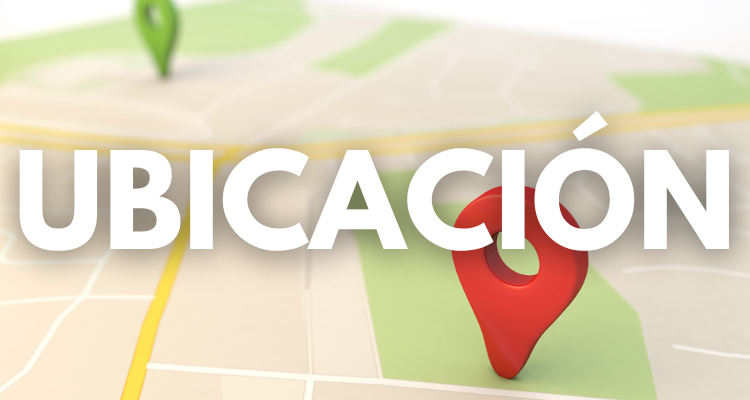
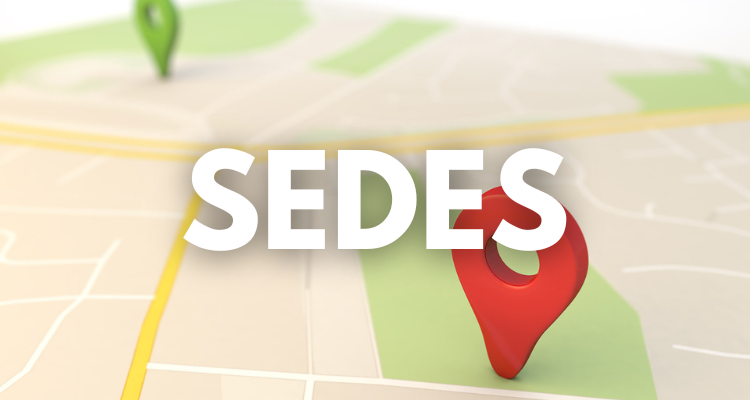
Sección SEDES

Changed region(s): [[0.0, 0.27, 1.0, 0.69]]

diff --git a/pages/cont/sedes.html b/pages/cont/sedes.html
@@ -28,123 +28,129 @@
     <link href="https://fonts.googleapis.com/css2?family=League+Spartan:wght@500&display=swap" rel="stylesheet">
 
     <!-- CSS -->
-    <link rel="stylesheet" href="../css/style.css">
+    <link rel="stylesheet" href="../../css/style.css">
 
     <!-- Favicon -->
-    <link rel="shortcut icon" href="../multimedia/favicon.ico" type="image/x-icon">
+    <link rel="shortcut icon" href=".ico" type="image/x-icon">
 
     <!-- Meta description -->
-    <meta name="description" content="Estudio Jurídico LEGEM cuenta con presencia en las principales redes sociales, lo cual permite que puedas contactarnos por la vía que te resulte más cómoda y conveniente. Estamos para ayudarte.">
+    <meta name="description" content="Bienvenidos a Estudio Jurídico LEGEM, un bufete de abogados con más de 30 años de experiencia. Ofrecemos una amplia variedad de servicios.">
 
     <!-- Meta keywords -->
-    <meta name="keywords" content="Estudio jurídico, abogados, firma de abogados, LEGEM, Argentina, España, Italia, juicio, accidentes de tránsito, sucesiones, contratos, nacionalidad española, extranjería, ciudadanía italiana, visado de emprendedor, apertura de cuenta bancaria, trámites internacionales, contacto, redes sociales">
+    <meta name="keywords" content="Estudio jurídico, abogados, LEGEM, ubicación, sedes, Argentina, España">
 
     <!-- Protocolo Open Graph -->
     <meta property="og:type" content="website">
-    <meta property="og:title" content="Contacto | Estudio Jurídico LEGEM">
-    <meta property="og:url" content="https://www.estudiolegem.com/pages/contacto.html">
+    <meta property="og:title" content="Sedes | Estudio Jurídico LEGEM">
+    <meta property="og:url" content="https://www.estudiolegem.com/pages/cont/sedes.html">
     <meta property="og:image" content="https://estudiolegem.com/multimedia/newlogofooter4.png">
 
-    <title>Contacto | Estudio Jurídico LEGEM</title>
+    <title>Sedes | Estudio Jurídico LEGEM</title>
 </head>
 <body>
 
     <div data-aos="zoom-in">
-        
+
+
         <nav class="navbar sticky-top navbar-expand-lg navbar-dark">
             <div class="container">
-                <a href="../index.html" class="navbar-brand">
-                    <img class="arg-leon" src="../multimedia/leon-xxs.jpg" alt="León dorado que se encuentra en el logo de Estudio Jurídico LEGEM.">
+                <a href="../../index.html" class="navbar-brand">
+                    <img class="arg-leon" src="../../multimedia/leon-xxs.jpg" alt="">
                 </a>
-
+    
                 <button class="navbar-toggler shadow-none" type="button" data-bs-toggle="collapse" data-bs-target="#navmenu">
                     <span class="navbar-toggler-icon"></span>
                 </button>
-
+    
                 <div class="collapse navbar-collapse" id="navmenu">
                     <ul class="navbar-nav ms-auto">
                         <li class="nav-item d-flex justify-content-sm-center">
-                            <a href="../index.html" class="nav-link">INICIO</a>
+                            <a href="../../index.html" class="nav-link">INICIO</a>
                         </li>
                         <li class="nav-item d-flex justify-content-sm-center">
-                            <a href="estudio.html" class="nav-link">NUESTRO ESTUDIO</a>
+                            <a href="../estudio.html" class="nav-link">NUESTRO ESTUDIO</a>
                         </li>
                         <li class="nav-item d-flex justify-content-sm-center">
-                            <a href="areas-de-practica.html" class="nav-link">ÁREAS DE PRÁCTICA</a>
+                            <a href="../areas-de-practica.html" class="nav-link">ÁREAS DE PRÁCTICA</a>
                         </li>
                         <li class="nav-item d-flex justify-content-sm-center">
-                            <a href="contacto.html" class="nav-link active-contacto-arg">CONTACTO</a>
+                            <a href="../contacto.html" class="nav-link active-practica-arg">CONTACTO</a>
                         </li>
                     </ul>
                 </div>
-
             </div>
         </nav>
         <!-- Fin Nav -->
-
+    
         <!-- Section 1 -->
         <section>
-            <img class="img-fluid" src="../multimedia/contacto1.png" alt="Foto encabezado con la palabra CONTACTO en mayúscula y un fondo con libros, una balanza y un martillo de Juez.">
+            <img class="img-fluid" src="../../multimedia/cont-ubi2.png" alt="Foto botón con un mapa satelital gris, amarillo y verde e indicadores rojo y verde con la palabra SEDES en medio">
         </section>
         <!-- Fin section 1 -->
-
+    
         <!-- Section 2 -->
-        <section class="contacto-section-2">
+        <section class="nuestro-estudio-section-2">
             <div class="container">
-                <div class="row borderbottpractband">
-                    <div class="col-12">
-                        <p class="psection2adp">Brindamos asesoramiento integral a través de cualquiera de nuestros canales de contacto. A su vez, los invitamos a sumarse a nuestras comunidades de Facebook, Instagram y LinkedIn.</p>
+                <a href="../contacto.html" class="a-volver">
+                    <button class="button-volver"><svg xmlns="http://www.w3.org/2000/svg" width="16" height="16" fill="currentColor" class="bi bi-arrow-return-left" viewBox="0 0 16 16">
+                        <path fill-rule="evenodd" d="M14.5 1.5a.5.5 0 0 1 .5.5v4.8a2.5 2.5 0 0 1-2.5 2.5H2.707l3.347 3.346a.5.5 0 0 1-.708.708l-4.2-4.2a.5.5 0 0 1 0-.708l4-4a.5.5 0 1 1 .708.708L2.707 8.3H12.5A1.5 1.5 0 0 0 14 6.8V2a.5.5 0 0 1 .5-.5z"/>
+                      </svg> Volver</button>
+                </a>
+
+                <div class="container">
+                    <div class="row borderbottpractband">
+                        <div class="col-12">
+                            <p class="psection2adp">Estudio Jurídico LEGEM cuenta con 4 sedes distribuidas estratégicamente en Argentina y España.</p>
+                        </div>
+                    </div>
+                    <div class="row">
+                        <div class="col-12 borderbottpractband">
+                            <p class="psection2adp">SEDES EN ARGENTINA</p> 
+            
+                            <iframe src="https://www.google.com/maps/embed?pb=!1m18!1m12!1m3!1d3283.899620901983!2d-58.38955190000001!3d-34.6066997!2m3!1f0!2f0!3f0!3m2!1i1024!2i768!4f13.1!3m3!1m2!1s0x95bccac38548fbd5%3A0x47f499707fed10a5!2sTte.%20Gral.%20Juan%20Domingo%20Per%C3%B3n%201610%208%C2%B0%20piso%2C%20C1037%20San%20Nicolas%2C%20Buenos%20Aires!5e0!3m2!1ses!2sar!4v1667245916803!5m2!1ses!2sar" width="300" height="300" style="border:0;" allowfullscreen="" loading="lazy" referrerpolicy="no-referrer-when-downgrade"></iframe>  
+
+                            <p class="psection2adp"><svg xmlns="http://www.w3.org/2000/svg" width="16" height="16" fill="currentColor" class="bi bi-geo-alt-fill" viewBox="0 0 16 16">
+                                <path d="M8 16s6-5.686 6-10A6 6 0 0 0 2 6c0 4.314 6 10 6 10zm0-7a3 3 0 1 1 0-6 3 3 0 0 1 0 6z"/>
+                              </svg> Tte. Gral. Juan Domingo Perón 1610, 8° Piso, Balvanera, C.A.B.A. (C.P. 1037)</p> 
+                            
+                            <iframe src="https://www.google.com/maps/embed?pb=!1m18!1m12!1m3!1d3281.0156969823242!2d-58.4742512!3d-34.679553299999995!2m3!1f0!2f0!3f0!3m2!1i1024!2i768!4f13.1!3m3!1m2!1s0x95bcc952087d276d%3A0x4b5bf688f48a9ebb!2sMartiniano%20Leguizam%C3%B3n%204401%2C%20C1439%20CABA!5e0!3m2!1ses!2sar!4v1667246422705!5m2!1ses!2sar" width="300" height="300" style="border:0;" allowfullscreen="" loading="lazy" referrerpolicy="no-referrer-when-downgrade"></iframe>
+
+                            <p class="psection2adp"><svg xmlns="http://www.w3.org/2000/svg" width="16" height="16" fill="currentColor" class="bi bi-geo-alt-fill" viewBox="0 0 16 16">
+                                <path d="M8 16s6-5.686 6-10A6 6 0 0 0 2 6c0 4.314 6 10 6 10zm0-7a3 3 0 1 1 0-6 3 3 0 0 1 0 6z"/>
+                              </svg> Martiniano Leguizamón 4401, Villa Lugano, C.A.B.A. (C.P. 1439)</p> 
+                        </div>
+                    </div>
+
+                    <div class="row">
+                        <div class="col-12">
+                            <p class="psection2adp">SEDES EN ESPAÑA</p> 
+            
+                            <iframe src="https://www.google.com/maps/embed?pb=!1m18!1m12!1m3!1d3205.5946951814317!2d-4.6207407!3d36.5397714!2m3!1f0!2f0!3f0!3m2!1i1024!2i768!4f13.1!3m3!1m2!1s0xd72e26a4624211d%3A0xba9e7a0654a93252!2sC.%20Moncayo%2C%2037%2C%2029640%20Fuengirola%2C%20M%C3%A1laga%2C%20Espa%C3%B1a!5e0!3m2!1ses!2sar!4v1667246921915!5m2!1ses!2sar" width="300" height="300" style="border:0;" allowfullscreen="" loading="lazy" referrerpolicy="no-referrer-when-downgrade"></iframe>
+
+                            <p class="psection2adp"><svg xmlns="http://www.w3.org/2000/svg" width="16" height="16" fill="currentColor" class="bi bi-geo-alt-fill" viewBox="0 0 16 16">
+                                <path d="M8 16s6-5.686 6-10A6 6 0 0 0 2 6c0 4.314 6 10 6 10zm0-7a3 3 0 1 1 0-6 3 3 0 0 1 0 6z"/>
+                              </svg> Calle Moncayo 37, Fuengirola, Málaga, España (C.P. 29640)</p> 
+                            
+                            <iframe src="https://www.google.com/maps/embed?pb=!1m14!1m8!1m3!1d3035.4292625781013!2d-3.6909696!3d40.4657675!3m2!1i1024!2i768!4f13.1!3m3!1m2!1s0xd4229104f229ad3%3A0x6913d977f58df33c!2sC.%20de%20Bravo%20Murillo%2C%20377%2C%2028020%20Madrid%2C%20Espa%C3%B1a!5e0!3m2!1ses!2sar!4v1667246977612!5m2!1ses!2sar" width="300" height="300" style="border:0;" allowfullscreen="" loading="lazy" referrerpolicy="no-referrer-when-downgrade"></iframe>
+
+                            <p class="psection2adp"><svg xmlns="http://www.w3.org/2000/svg" width="16" height="16" fill="currentColor" class="bi bi-geo-alt-fill" viewBox="0 0 16 16">
+                                <path d="M8 16s6-5.686 6-10A6 6 0 0 0 2 6c0 4.314 6 10 6 10zm0-7a3 3 0 1 1 0-6 3 3 0 0 1 0 6z"/>
+                              </svg> C. de Bravo Murillo 377, Madrid, España (C.P. 28020)</p> 
+                        </div>
                     </div>
                 </div>
-                <div class="row" id="argcont">
-                    <div class="row">
-                        <div class="col-lg-6 col-md-6 col-sm-12 distance">
-                            <a href="https://wa.me/5491125047744">                       
-                                <img class="img-fluid img-serv-wpp grow2" src="../multimedia/cont-wpp.png" alt="Foto botón con el nombre de WhatsApp y su logo verde y blanco.">
-                            </a>
-                        </div>
-                        <div class="col-lg-6 col-md-6 col-sm-12 distance">
-                            <a href="https://www.facebook.com/legemestudio" target="_blank">
-                                <img class="img-fluid img-serv-face grow2" src="../multimedia/cont-fb.png" alt="Foto botón con el nombre de Faceook y su logo azul y blanco.">
-                            </a>
-                        </div>
-                    </div>
-                    <div class="row">
-                        <div class="col-lg-6 col-md-6 col-sm-12 distance">
-                            <a href="https://www.instagram.com/estudiolegem/" target="_blank">
-                                <img class="img-fluid img-serv-insta grow2" src="../multimedia/cont-ig.png" alt="Foto botón con el nombre de Instagram y su logo violeta, naranja y blanco.">
-                            </a>
-                        </div>
-                        <div class="col-lg-6 col-md-6 col-sm-12 distance">
-                            <a href="https://www.linkedin.com/company/estudiolegem" target="_blank">
-                                <img class="img-fluid img-serv-linked grow2" src="../multimedia/cont-link.png" alt="Foto botón con el nombre de LinkedIn y su logo azul y blanco.">
-                            </a>
-                        </div>
-                    </div>
-                    <div class="row">
-                        <div class="col-lg-6 col-md-6 col-sm-6 distance">
-                            <a href="./cont/email.html">
-                                <img class="img-fluid img-serv-mail grow2" src="../multimedia/cont-mail.png" alt="Foto botón con un sobre blanco y gris y un fondo azul y celeste con la palabra EMAIL en medio.">
-                            </a>
-                        </div>
-                        <div class="col-lg-6 col-md-6 col-sm-6 distance">
-                            <a href="./cont/sedes.html">
-                                <img class="img-fluid img-serv grow2" src="../multimedia/cont-ubi.png" alt="Foto botón con un mapa satelital gris, amarillo y verde e indicadores rojo y verde con la palabra SEDES en medio">
-                            </a>
-                        </div>
-                    </div>
-                </div>
+    
+            </div>
         </section>
         <!-- Fin section 2 -->
-
+    
         <!-- Inicio footer -->
         <footer>
             <div class="container">
                 <div class="row">
                     <div class="col-lg-3 col-md-12 col-sm-12 pb-5 bordbott imglogolegemfooter">
-                            <img class="img-fluid" src="../multimedia/newlogofooter4.png" alt="Logo de Estudio Jurídico LEGEM con un león dorado y el nombre del estudio.">
+                        <img class="img-fluid" src="../../multimedia/newlogofooter4.png" alt="">
                     </div>
-
                     <div class="col-lg-3 col-md-12 col-sm-12 py-3 bordbott textadjust bordleft">
                         <div class="col-12">
                             <p class="pfooterindexarg">Nuestras sedes:</p>
@@ -170,7 +176,7 @@
                               </svg> <a href="https://goo.gl/maps/97KGs8cDvM6cXTGi9" class="afooterindexarg">Madrid, España</a></p>
                         </div>
                     </div>
-                        
+                    
                     <div class="col-lg-3 col-md-12 col-sm-12 py-3 bordbott textadjust bordleft">
                         <div class="col-12">
                             <p class="pfooterindexarg">+34 631 08 93 50</p>
@@ -191,22 +197,21 @@
                             <a href="https://www.linkedin.com/company/estudiolegem" target="_blank" class="afooterindexarg">LinkedIn</a>
                         </div>
                     </div>
-
                     <div class="col-lg-3 col-md-12 col-sm-12 py-3 textadjust bordleft">
                         <div class="col-12">
-                            <a href="../index.html" class="afooterindexarg">Inicio</a>
+                            <a href="../../index.html" class="afooterindexarg">Inicio</a>
                         </div>
                         <div class="col-12">
-                            <a href="estudio.html" class="afooterindexarg">Nuestro Estudio</a>
+                            <a href="../estudio.html" class="afooterindexarg">Nuestro Estudio</a>
                         </div>
                         <div class="col-12">
-                            <a href="./est/equipo.html" class="afooterindexarg">Equipo LEGEM</a>
+                            <a href="../est/equipo.html" class="afooterindexarg">Equipo LEGEM</a>
                         </div>
                         <div class="col-12">
-                            <a href="areas-de-practica.html" class="afooterindexarg">Áreas de práctica</a>
+                            <a href="../areas-de-practica.html" class="afooterindexarg">Áreas de práctica</a>
                         </div>
                         <div class="col-12">
-                            <a href="contacto.html" class="afooterindexarg">Contacto</a>
+                            <a href="../contacto.html" class="afooterindexarg">Contacto</a>
                         </div>
                     </div>
                 </div>
@@ -220,35 +225,33 @@
                 </div>
             </div>
             
-            
             <div class="row g-0 pt-3">
                 <div class="col-lg-4 col-md-12 col-sm-12">
                     <a href="https://www.facebook.com/legemestudio" target="_blank">
-                        <img class="img-fluid foothover" src="../multimedia/FootFBLEGEM.png" alt="Botón dorado con logo de Facebook que redirecciona a la página de Estudio Jurídico LEGEM en dicha red social.">
+                        <img class="img-fluid foothover" src="../../multimedia/FootFBLEGEM.png" alt="">
                     </a>
                 </div>
                 <div class="col-lg-4 col-md-12 col-sm-12">
                     <a href="https://www.instagram.com/estudiolegem/" target="_blank">
-                        <img class="img-fluid foothover2" src="../multimedia/FootIGLEGEM.png" alt="Botón dorado con logo de Instagram que redirecciona a la página de Estudio Jurídico LEGEM en dicha red social.">
+                        <img class="img-fluid foothover2" src="../../multimedia/FootIGLEGEM.png" alt="">
                     </a>
                 </div>
                 <div class="col-lg-4 col-md-12 col-sm-12">
                     <a href="https://www.linkedin.com/company/estudiolegem" target="_blank">
-                        <img class="img-fluid foothover3" src="../multimedia/FootLKINLEGEM.png" alt="Botón dorado con logo de LinkedIn que redirecciona a la página de Estudio Jurídico LEGEM en dicha red social.">
+                        <img class="img-fluid foothover3" src="../../multimedia/FootLKINLEGEM.png" alt="">
                     </a>
                 </div>
             </div>
         </footer>
-
+    
+    
 
     </div>
 
 
 
-
     <!-- Bootstrap -->
     <script src="https://cdn.jsdelivr.net/npm/bootstrap@5.2.0-beta1/dist/js/bootstrap.bundle.min.js" integrity="sha384-pprn3073KE6tl6bjs2QrFaJGz5/SUsLqktiwsUTF55Jfv3qYSDhgCecCxMW52nD2" crossorigin="anonymous"></script>
-
         
     <!-- Animación -->
     <script src="https://unpkg.com/aos@2.3.1/dist/aos.js"></script>
@@ -256,5 +259,6 @@
     <script>
         AOS.init();
     </script>
+    
 </body>
 </html>

diff --git a/pages/cont/email.html b/pages/cont/email.html
@@ -34,14 +34,14 @@
     <link rel="shortcut icon" href=".ico" type="image/x-icon">
 
     <!-- Meta description -->
-    <meta name="description" content="Bienvenidos a Estudio Jurídico LEGEM, un bufete de abogados con más de 30 años de experiencia. Ofrecemos una amplia variedad de servicios y ........">
+    <meta name="description" content="Bienvenidos a Estudio Jurídico LEGEM, un bufete de abogados con más de 30 años de experiencia. Ofrecemos una amplia variedad de servicios.">
 
     <!-- Meta keywords -->
-    <meta name="keywords" content="Estudio jurídico, abogados, LEGEM, ............">
+    <meta name="keywords" content="Estudio jurídico, abogados, LEGEM, email, correo electrónico">
 
     <!-- Protocolo Open Graph -->
     <meta property="og:type" content="website">
-    <meta property="og:title" content="Inicio | Estudio Jurídico LEGEM - ¡Bienvenidos al estudio!">
+    <meta property="og:title" content="Emails de contacto | Estudio Jurídico LEGEM">
     <meta property="og:url" content="https://www.estudiolegem.com/pages/cont/email.html">
     <meta property="og:image" content="https://estudiolegem.com/multimedia/newlogofooter4.png">
 
@@ -71,10 +71,10 @@
                             <a href="../estudio.html" class="nav-link">NUESTRO ESTUDIO</a>
                         </li>
                         <li class="nav-item d-flex justify-content-sm-center">
-                            <a href="../areas-de-practica.html" class="nav-link active-practica-arg">ÁREAS DE PRÁCTICA</a>
+                            <a href="../areas-de-practica.html" class="nav-link">ÁREAS DE PRÁCTICA</a>
                         </li>
                         <li class="nav-item d-flex justify-content-sm-center">
-                            <a href="../contacto.html" class="nav-link">CONTACTO</a>
+                            <a href="../contacto.html" class="nav-link active-practica-arg">CONTACTO</a>
                         </li>
                     </ul>
                 </div>
